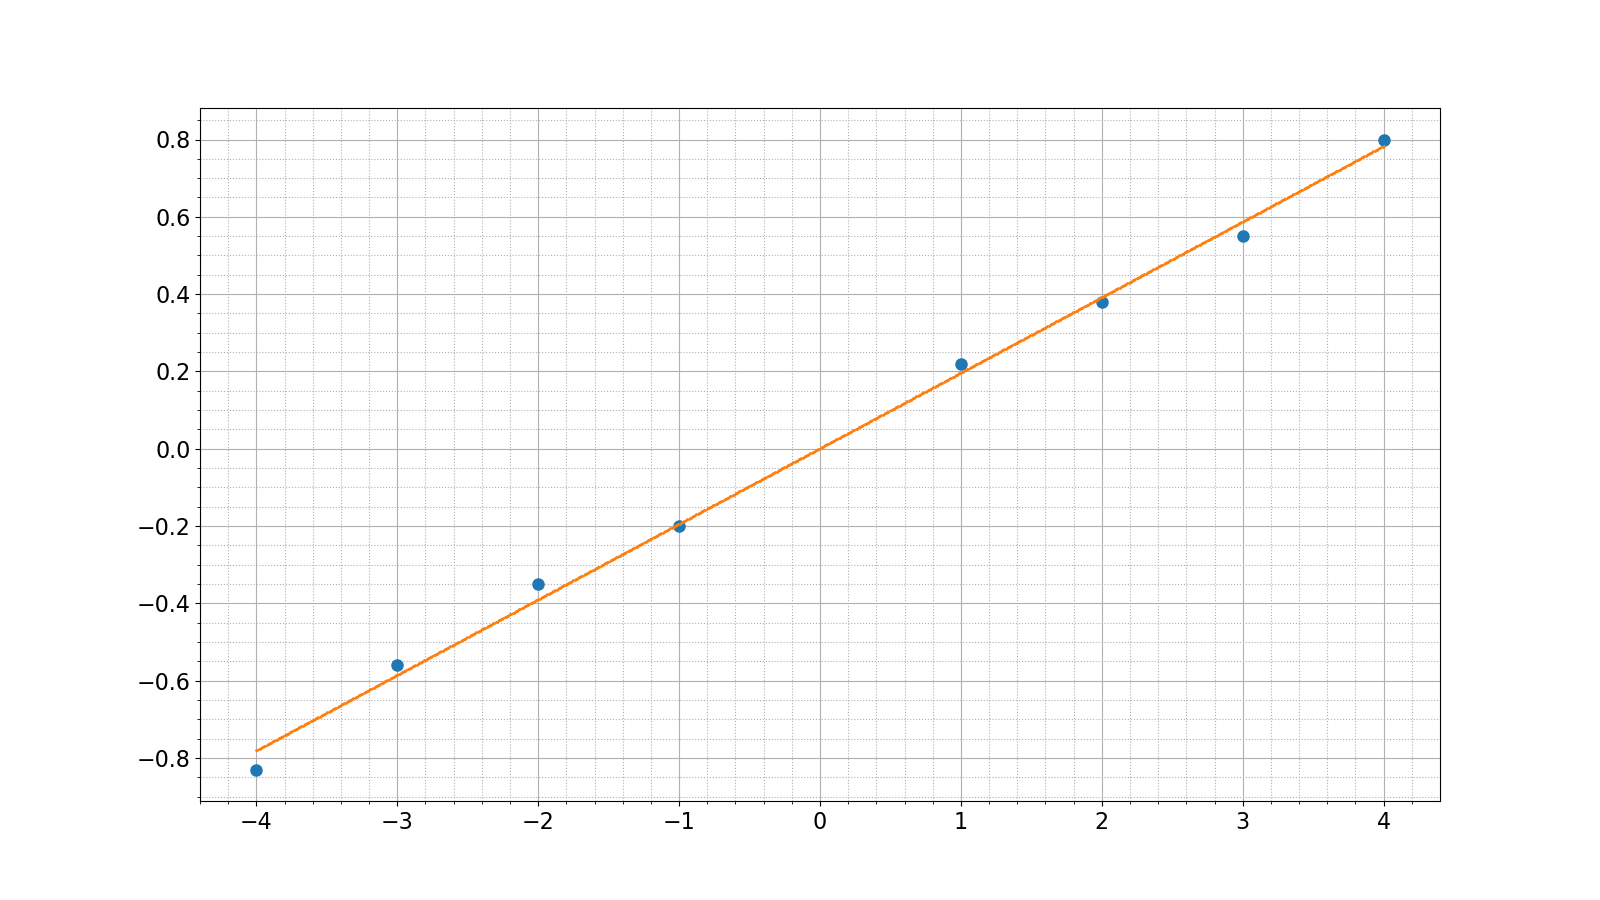
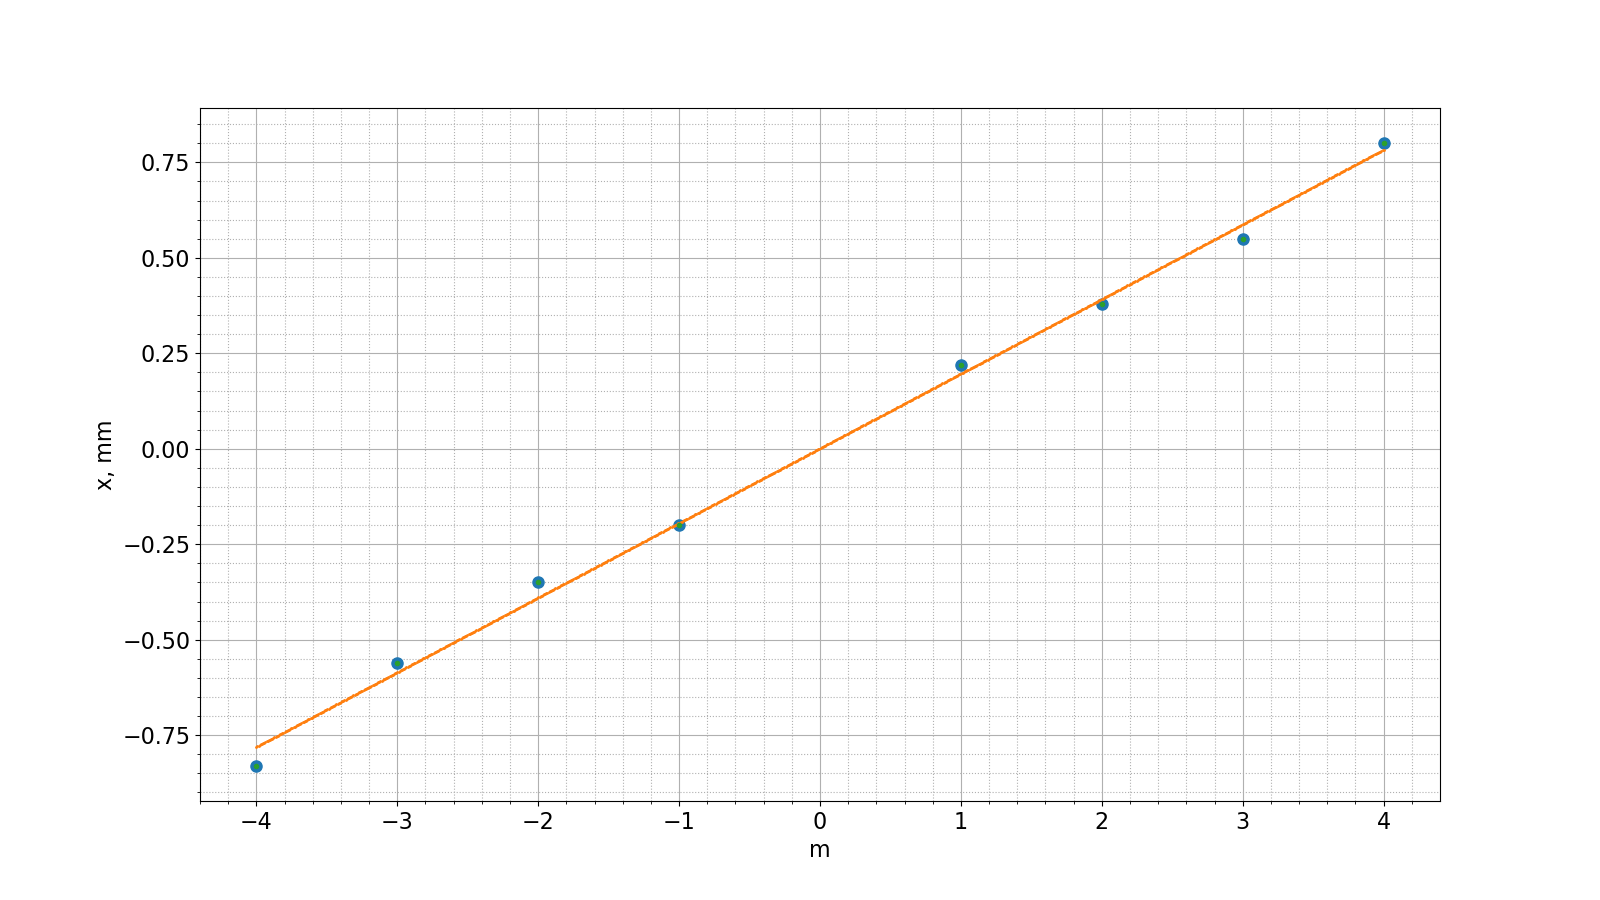
add latex links

diff --git a/431/main.py b/431/main.py
@@ -47,26 +47,32 @@ def main():
     D = 216 ## mikro
     m = np.array([1, 2, 3, 4, 5, 6])
     a = np.array([68, 66, 63, 60, 55, 48]) # mili 
-    _2zm = np.sqrt(m * a * _lambda * 10**(-6)) #mili
+    _2zm = 2 * np.sqrt(m * a * _lambda * 10**(-6)) #mili
     sigma_2zm = np.array([])
     for i in range(_2zm.size):
         sigma_2zm = np.append(sigma_2zm, sigma_coss(_2zm[i], [2], [a[i]], [0.5]))
 
+    print (sigma_2zm)
+
     ## PLOT
     mpl.rcParams['font.size'] = 16
     plt.figure(figsize=(16,9))
-    plt.plot(m, _2zm, 'o', markersize=8)
+    plt.xlabel("m")
+    plt.plot(m, _2zm, 'o' ,label = "width of Frenel zones, mm", markersize=8)
     D_arr = [D/(10**(3))] * 6
-    plt.plot(m, D_arr)
+    plt.plot(m, D_arr, label = "width of gap, mm")
+    plt.errorbar(m, _2zm, yerr = sigma_2zm, fmt = '.')
     plt.minorticks_on()
     plt.grid(which='major', axis='both')
     plt.grid(which='minor', axis='both', linestyle = ':')
+    plt.legend()
     plt.savefig("frenel")
 
     # ----------------FRAINH------------------------------------------ 
     F2 = 12.8 # santi
     m = np.array([-4, -3, -2, -1, 1, 2, 3, 4])
     xm = np.array([-0.83, -0.56, -0.35, -0.20, 0.22, 0.38, 0.55, 0.80])
+    xm_error = np.array([0.01] * 8)
 
     k = k_coef(m, xm)
     b = b_coef(m, xm)
@@ -78,8 +84,11 @@ def main():
     ## PLOT
     mpl.rcParams['font.size'] = 16
     plt.figure(figsize=(16,9))
+    plt.xlabel("m")
+    plt.ylabel("x, mm")    
     plt.plot(m, xm, 'o', markersize=8)
     plt.plot(x_approx, y_approx, 'o', markersize=1)
+    plt.errorbar(m, xm, yerr = xm_error, fmt = '.')
     plt.minorticks_on()
     plt.grid(which='major', axis='both')
     plt.grid(which='minor', axis='both', linestyle = ':')

diff --git a/313/Readme.md b/313/Readme.md
@@ -1,0 +1,1 @@
+LATEX: https://www.overleaf.com/read/pmkncxbyfpfc

diff --git a/323/Readme.md b/323/Readme.md
@@ -1,0 +1,1 @@
+LATEX: https://www.overleaf.com/read/hmxgnkcfwpjm

diff --git a/324/Readme.md b/324/Readme.md
@@ -1,0 +1,1 @@
+LATEX: https://www.overleaf.com/read/twrtqpnzhwgg

diff --git a/334/Readme.md b/334/Readme.md
@@ -1,0 +1,1 @@
+LATEX: https://www.overleaf.com/read/hcvzskmhjrkz

diff --git a/431/Readme.md b/431/Readme.md
@@ -1,0 +1,1 @@
+LATEX: https://www.overleaf.com/read/ggxbsgftggtc
